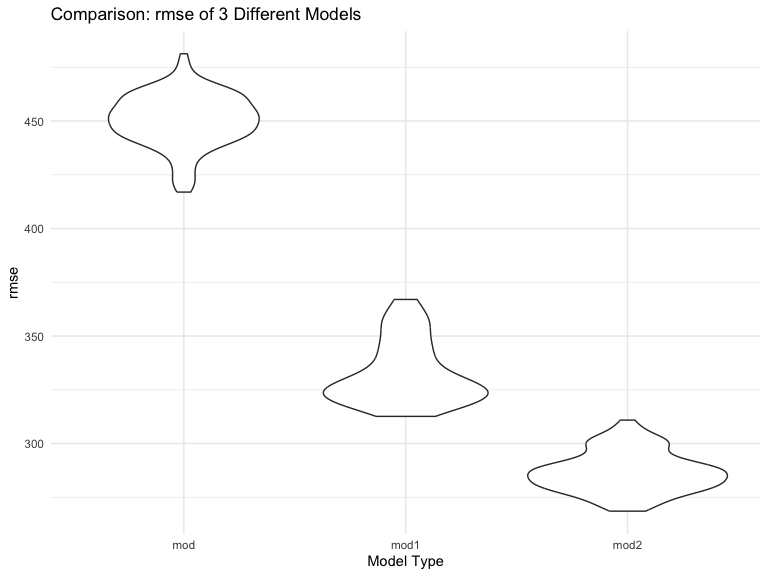
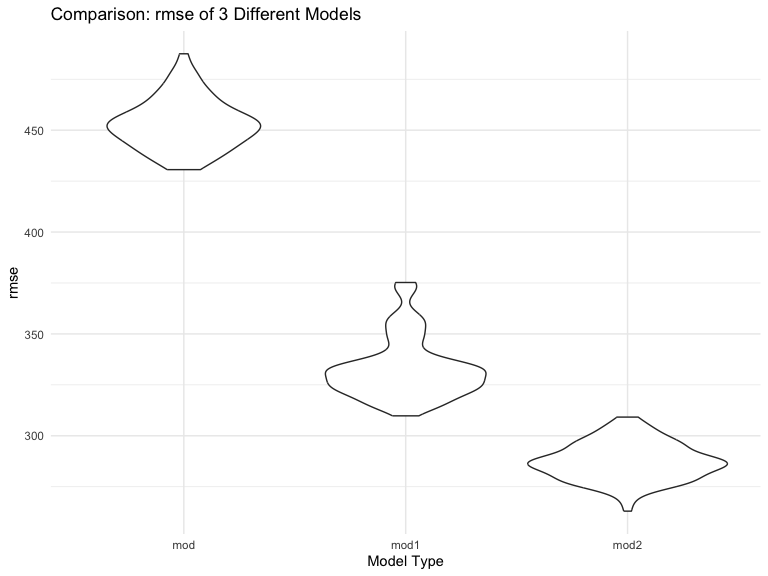
adding comparison in question 3

diff --git a/p8105_hw6_yz4434.md b/p8105_hw6_yz4434.md
@@ -262,8 +262,8 @@ ci_results
     ## # A tibble: 2 × 3
     ##   type      ci_lower ci_upper
     ##   <chr>        <dbl>    <dbl>
-    ## 1 log_b1_b2   -8.94    -4.57 
-    ## 2 r.squared    0.889    0.940
+    ## 1 log_b1_b2   -8.99    -4.53 
+    ## 2 r.squared    0.890    0.941
 
 ### Problem 3
 
@@ -297,20 +297,21 @@ sum(is.na(birthweight_df))
     ## [1] 0
 
 Description: According to this dataset, we can see that there are only
-three variable are categorical variables, including the sex of babies
-and races from patients. In this case, I would like to change them into
-factor with showing them in different level of characters. Besides that,
-I delete all redundant categories in race which doesn’t occur in this
-dataset. After checking this dataset, there is no missing data.
+three variable are categorical variables, including `babysex`, `frace`,
+and `mrace`. In this case, I would like to change them into factor with
+showing them in different level of characters. Besides that, I delete
+all redundant categories in race which doesn’t occur in this dataset.
+After checking this dataset, there is no missing data.
 
 #### Propose a regression model for birthweight
 
 The hypothesis I would like to create is to explore whether the factors
-of mother, including mother’s pre-pregnancy weight, weight gain during
-pregnancy, the age at delivery, with babies’ race which depends on
-parents’ races and the level of family income which directly determines
-the nutritional intake of the mother during pregnancy.Smoking during
-pregnancy might affect birthweight as well.
+of mother, including `ppwt` mother’s pre-pregnancy weight,
+`wtgain`weight gain during pregnancy, `momage` the age at delivery, with
+babies’ race which depends on parents’ races `frace` & `mrace` and the
+level of family income `fincome` which directly determines the
+nutritional intake of the mother during pregnancy. `smoken` Smoking
+during pregnancy might affect birthweight as well.
 
 ``` r
 # Create my models based on the hypothesis above
@@ -389,7 +390,7 @@ comparison_mean
     ## # A tibble: 3 × 2
     ##   model_type m_rmse
     ##   <chr>       <dbl>
-    ## 1 mod          451.
+    ## 1 mod          453.
     ## 2 mod1         333.
     ## 3 mod2         287.
 
@@ -406,3 +407,8 @@ comparison |>
 ```
 
 <img src="p8105_hw6_yz4434_files/figure-gfm/unnamed-chunk-11-1.png" width="90%" />
+
+From the plot, it seems that mod1 has the lowest range of rmse values,
+indicating that it might be the most consistent or accurate model among
+the three. The other two models, mod and mod2, show wider distributions
+of rmse values, suggesting more variability in their performance.
